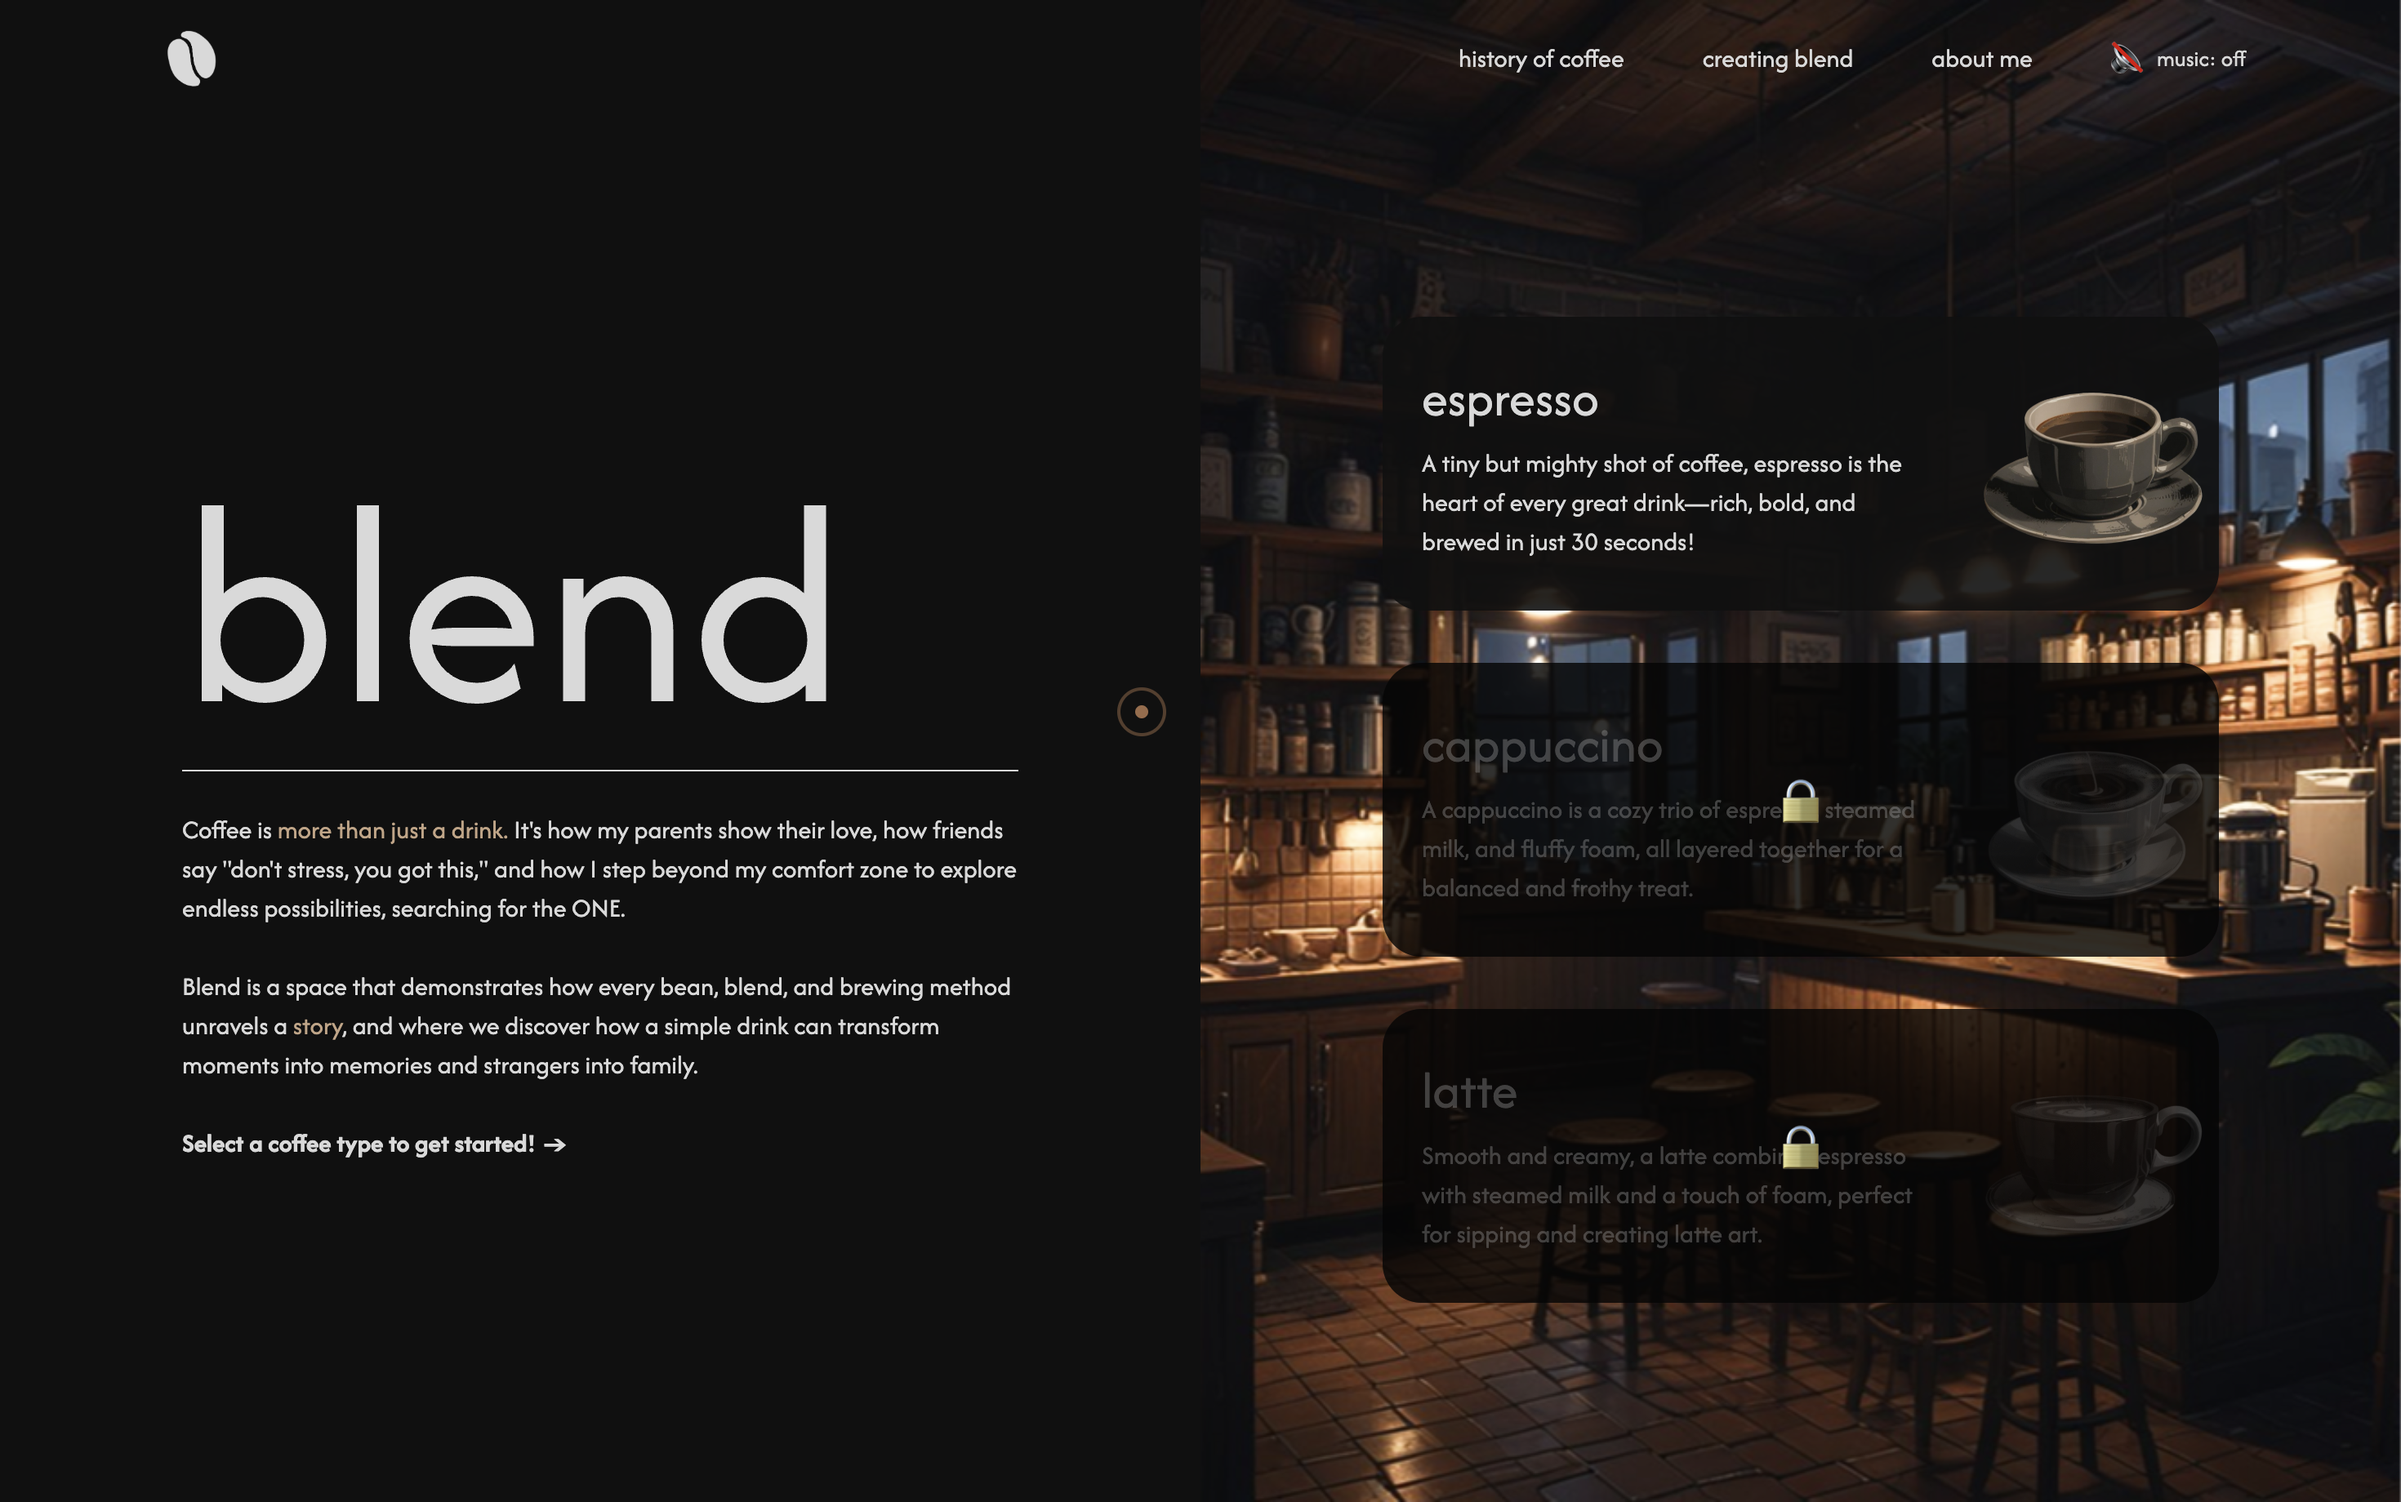
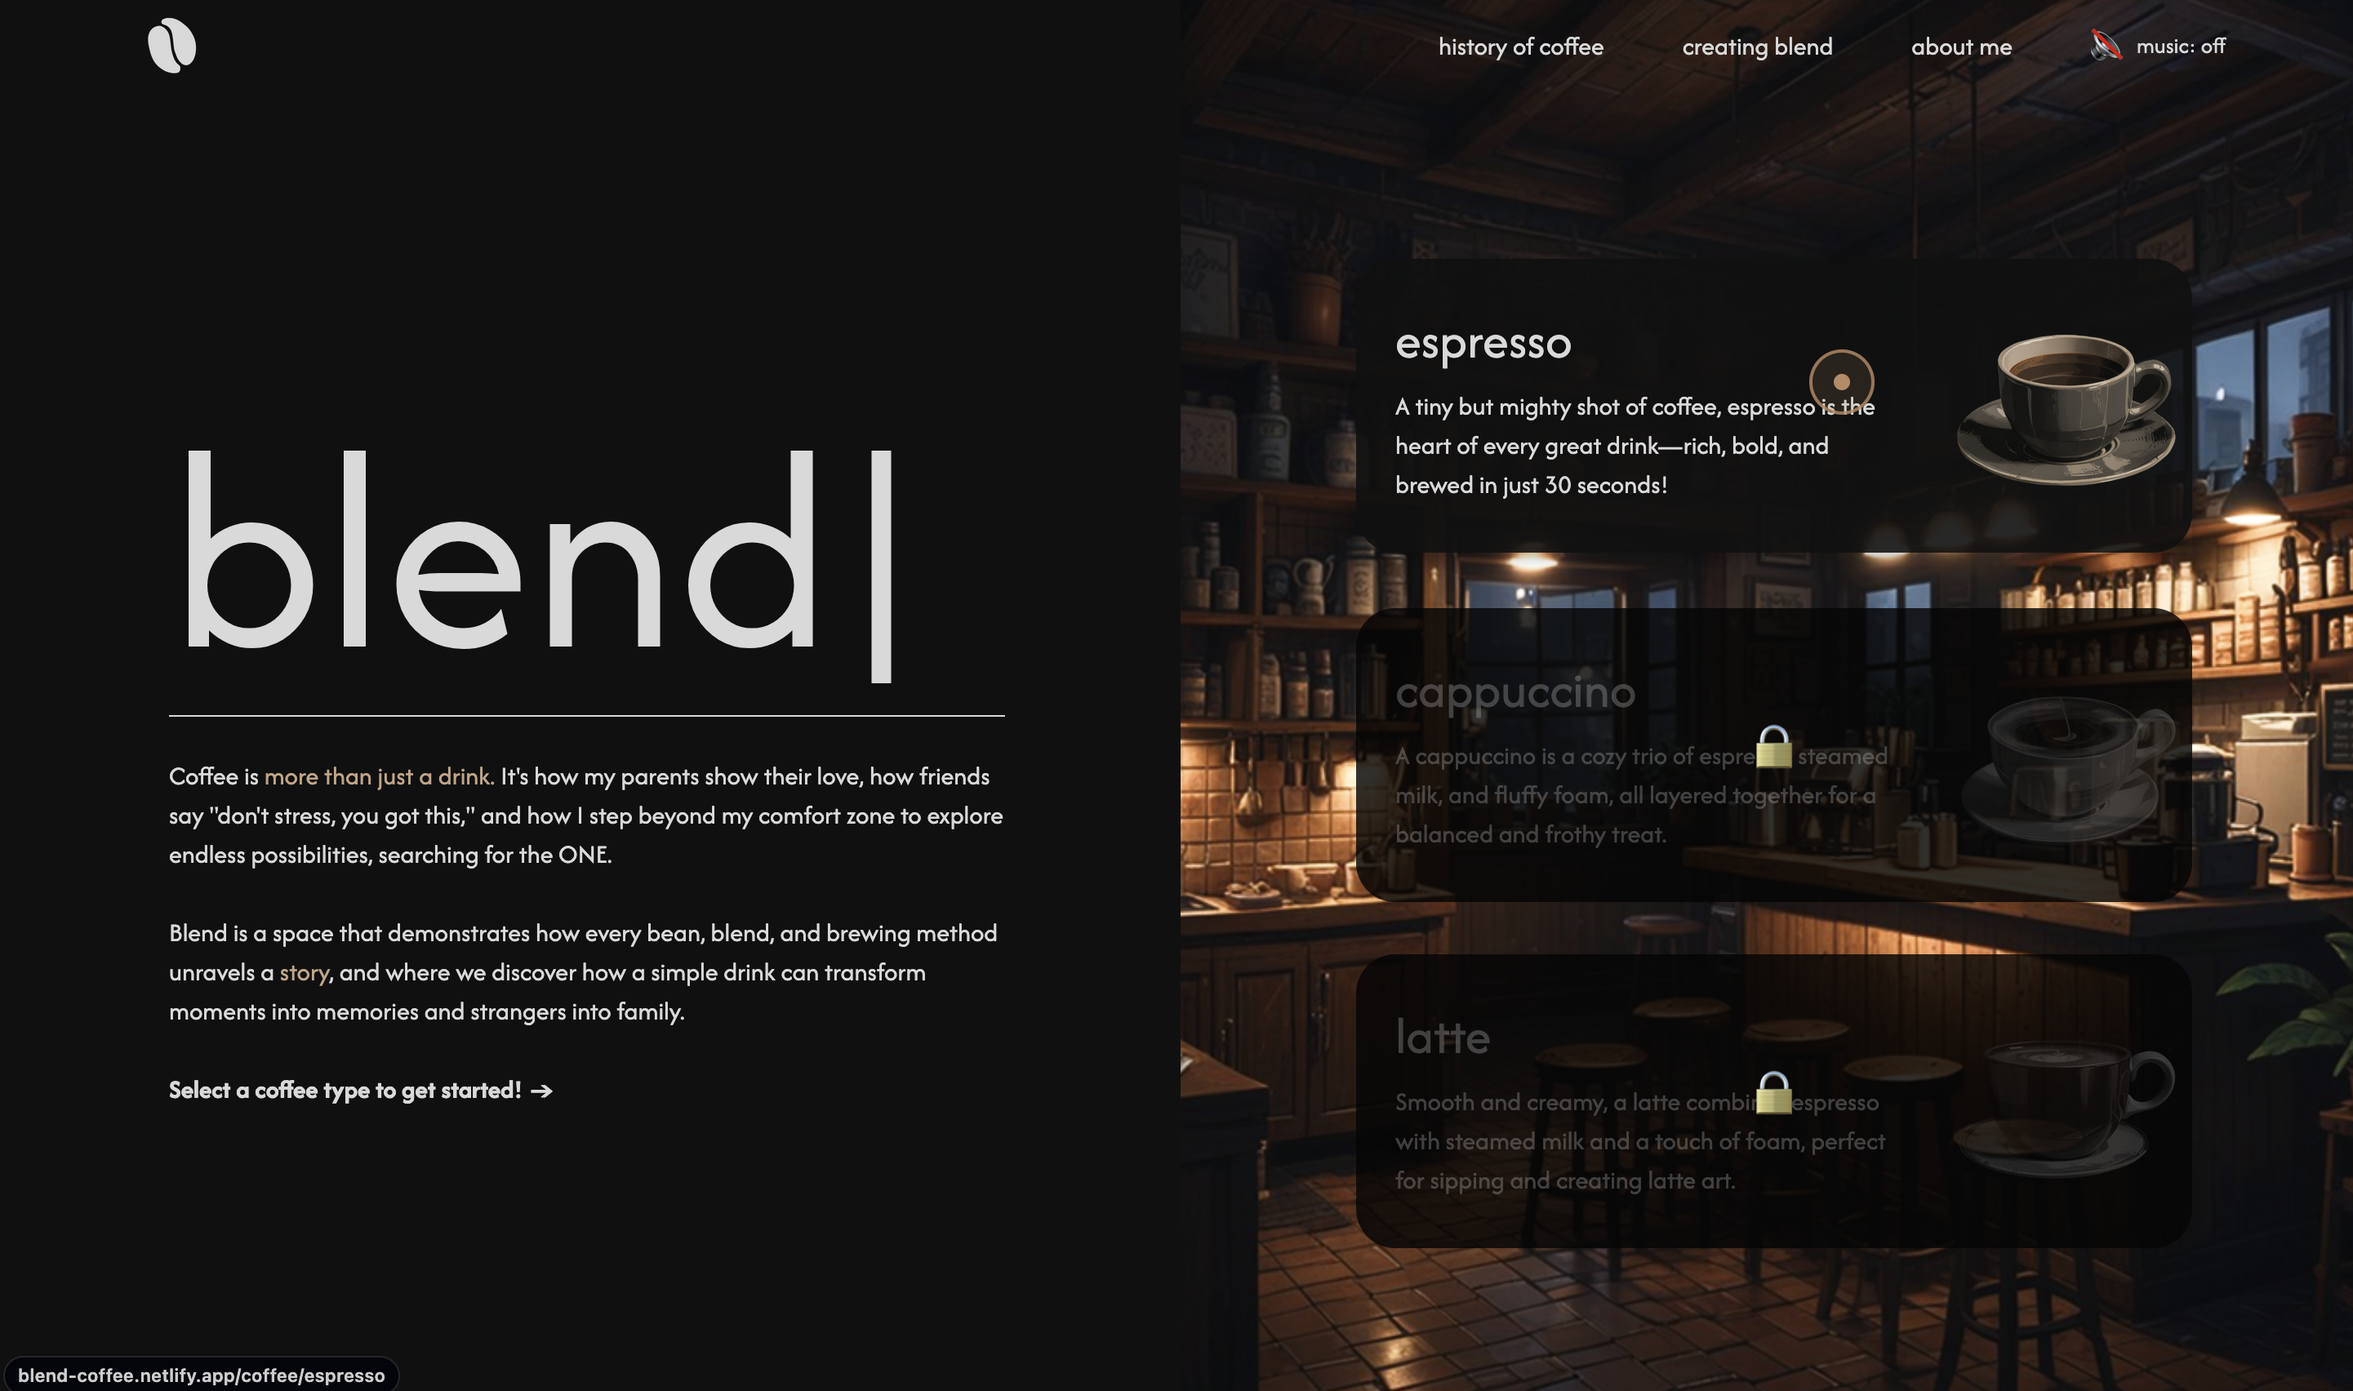
updated website

diff --git a/src/components/ExperienceComponent.vue b/src/components/ExperienceComponent.vue
@@ -14,7 +14,62 @@
 
           <!-- Experience timeline on the right -->
           <div class="md:w-2/3 mt-16">
+            <!-- Experience -2 -->
+            <div class="mb-10 experience-item" ref="expItem1">
+              <div class="flex justify-between items-start mb-4">
+                <h3 class="text-xl font-semibold text-[#030303]">
+                  Technology Risk Consultant at KPMG
+                </h3>
+                <span class="text-sm text-[#030303] font-light">Feb 2026 - Present</span>
+              </div>
+
+              <p class="text-[#030303] mb-6">
+                About to dive into technology risk, governance, and controls at KPMG.
+              </p>
+
+              <div
+                class="h-[2px] bg-gradient-to-r from-transparent via-[#FF0000] to-transparent w-full mt-6"
+              ></div>
+            </div>
+
+            <!-- Experience -1 -->
+            <div class="mb-10 experience-item" ref="expItem1">
+              <div class="flex justify-between items-start mb-4">
+                <h3 class="text-xl font-semibold text-[#030303]">
+                  Web Designer and Developer at the All India Collection Professionals Network
+                </h3>
+                <span class="text-sm text-[#030303] font-light">Dec 2025 - Present</span>
+              </div>
+
+              <p class="text-[#030303] mb-6">
+                Designing and developing a polished, formal website that reflects AICPN’s
+                professional identity.
+              </p>
+
+              <div
+                class="h-[2px] bg-gradient-to-r from-transparent via-[#FF0000] to-transparent w-full mt-6"
+              ></div>
+            </div>
+
+            <!-- Experience 0 -->
+            <div class="mb-10 experience-item" ref="expItem1">
+              <div class="flex justify-between items-start mb-4">
+                <h3 class="text-xl font-semibold text-[#030303]">AI Consultant at Jordan</h3>
+                <span class="text-sm text-[#030303] font-light">Sep 2025 - Present</span>
+              </div>
+
+              <p class="text-[#030303] mb-6">
+                Building AI-powered voice personas with long-term memory, designed to feel human,
+                context-aware, and surprisingly good at conversation.
+              </p>
+
+              <div
+                class="h-[2px] bg-gradient-to-r from-transparent via-[#FF0000] to-transparent w-full mt-6"
+              ></div>
+            </div>
+
             <!-- Experience 1 -->
+
             <div class="mb-10 experience-item" ref="expItem1">
               <div class="flex justify-between items-start mb-4">
                 <h3 class="text-xl font-semibold text-[#030303]">Co-founder at Orbityr</h3>

diff --git a/src/components/ProjectsComponent.vue b/src/components/ProjectsComponent.vue
@@ -90,23 +90,24 @@
       >
         <div class="project-content">
           <div class="project-image">
-            <img src="/yuvoa.png" alt="AI-Powered Social Media Analytics Dashboard" />
+            <img src="/capstone.png" alt="Capstone Project Workflow Diagram" />
           </div>
           <div class="project-info">
-            <h2 class="project-title">Yuvoa</h2>
+            <h2 class="project-title">
+              Collaborative Large Language Model Inference at the Network Edge
+            </h2>
             <p class="project-description">
-              A collaborative space for student teams to manage projects, share progress, and
-              actually enjoy working together.
+              Implemented a prototype system for collaborative LLM inference across networked edge
+              devices, focusing on inference-time privacy protection under an honest-but-curious
+              threat model. Designed a master–worker tensor-parallel architecture and implemented
+              Selective Hidden-State Obfuscation (SHSO) via layer-aware forward hooks to selectively
+              perturb early-layer hidden states.
             </p>
             <div class="tech-stack">
-              <span>Svelte</span>
-              <span>Gleam</span>
+              <span>Python</span>
+              <span>Distributed Systems</span>
             </div>
-            <div class="project-links">
-              <a href="https://github.com/jyotsna-venkatesan/yuvoa" class="project-link"
-                >Go to GitHub →</a
-              >
-            </div>
+            <div class="project-links"></div>
           </div>
         </div>
       </div>
@@ -274,7 +275,7 @@ const projectColors = ref([
       'radial-gradient(circle at center, rgba(255, 0, 64, 0.6) 10%, rgba(255, 0, 64, 0) 70%)',
   },
   {
-    bg: '#75272C', // red
+    bg: '#703c1e', // gold
     text: '#64FFDA',
     shadow: '0 0 8px #00C7B7',
     blob1Color:
